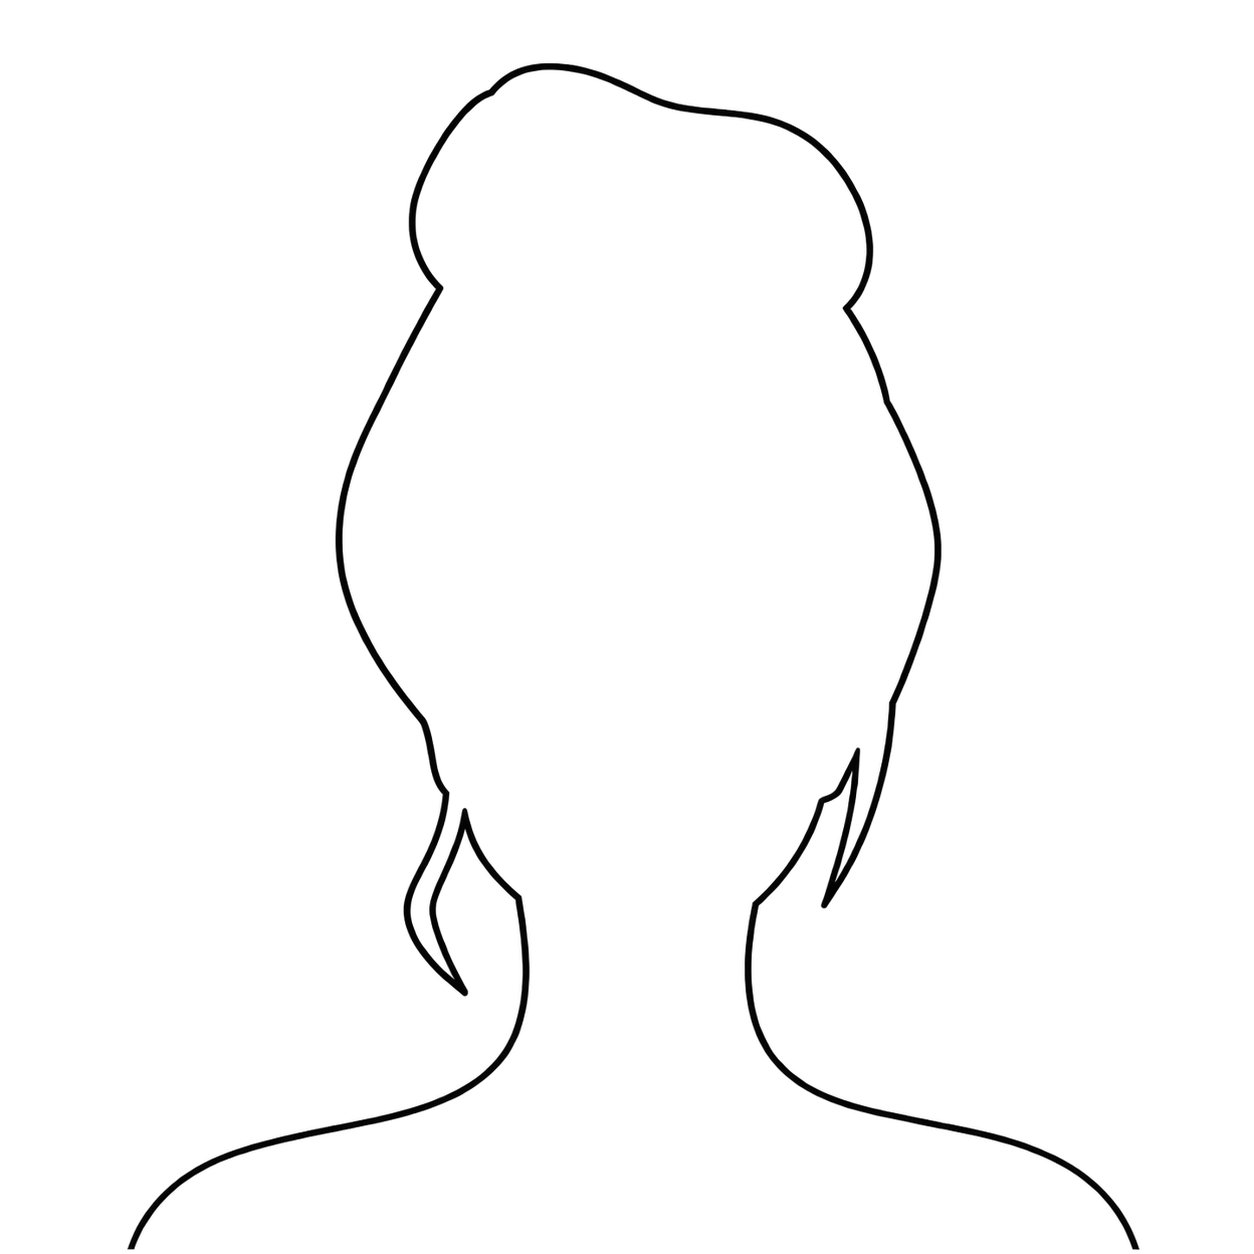
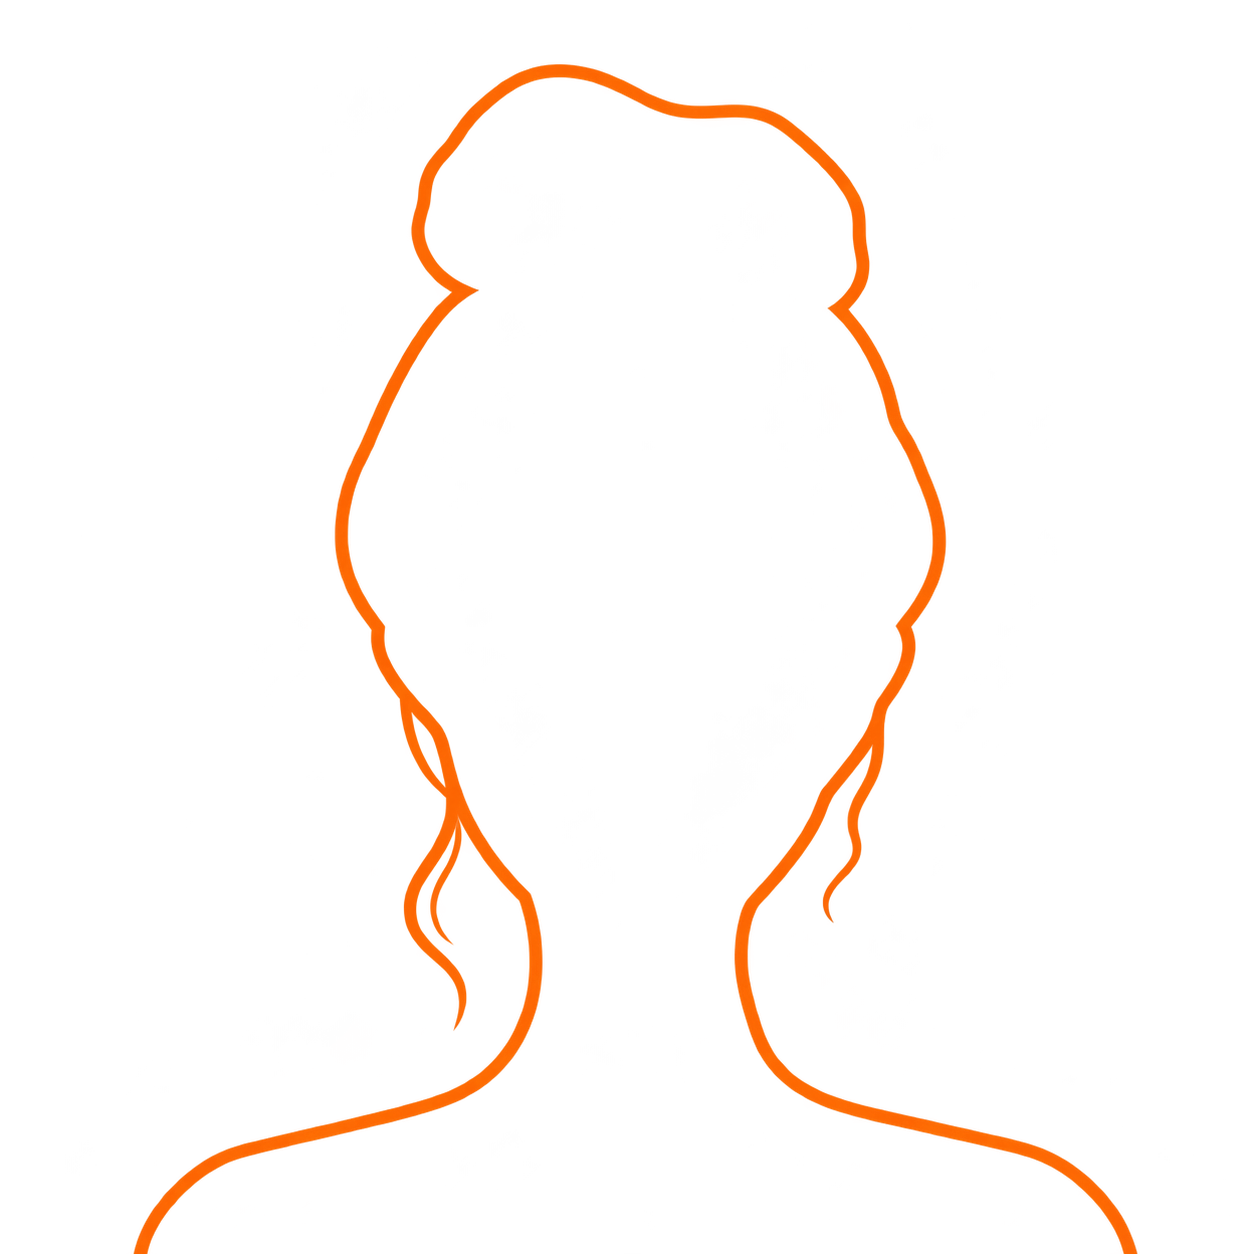
progress bar

diff --git a/src/pages/CoordinatorProjectSetup.tsx b/src/pages/CoordinatorProjectSetup.tsx
@@ -257,6 +257,29 @@ export default function CoordinatorProjectSetup() {
         ProjectFolderTimelineItem[]
     >([]);
 
+    const [selectedProgressFolder, setSelectedProgressFolder] =
+        useState<ProjectFolderTimelineItem | null>(null);
+
+
+    const progressPercentage = selectedProgressFolder
+        ? String(selectedProgressFolder.status) === "2"
+            ? 100
+            : String(selectedProgressFolder.status) === "1"
+                ? 50
+                : 0
+        : 0;
+
+    const progressKeyPerson = selectedProgressFolder?.key_person_options.find(
+        (person) => person.uid === selectedProgressFolder.keypersonid,
+    );
+
+    const progressUserName = progressKeyPerson
+        ? [
+            progressKeyPerson.firstname,
+            progressKeyPerson.lastname,
+        ].filter(Boolean).join(" ") || progressKeyPerson.loginname
+        : "Unassigned";
+
     // ========================================
     // Load project
     // ========================================
@@ -1366,13 +1389,17 @@ export default function CoordinatorProjectSetup() {
                                                             {/* Status */}
                                                             <td className="px-4 py-2">
                                                                 {!container && (
-                                                                    <span
-                                                                        className={`inline-flex whitespace-nowrap rounded-full px-2.5 py-1 text-xs font-medium ${String(folder.status) === "0"
+                                                                    <button
+                                                                        type="button"
+                                                                        disabled={String(folder.status) !== "1"}
+                                                                        onClick={() => setSelectedProgressFolder(folder)}
+                                                                        aria-label={`View progress and notes for ${folder.fname}`}
+                                                                        className={`inline-flex whitespace-nowrap rounded-full px-2.5 py-1 text-xs font-medium transition ${String(folder.status) === "0"
                                                                             ? "bg-gray-100 text-gray-700 dark:bg-gray-800 dark:text-gray-300"
                                                                             : String(folder.status) === "1"
-                                                                                ? "bg-orange-50 text-orange-700 dark:bg-orange-950 dark:text-orange-300"
+                                                                                ? "cursor-pointer bg-orange-50 text-orange-700 hover:bg-orange-100 hover:ring-2 hover:ring-primary/30 dark:bg-orange-950 dark:text-orange-300 dark:hover:bg-orange-900"
                                                                                 : String(folder.status) === "2"
-                                                                                    ? "bg-green-50 text-green-700 dark:bg-green-950 dark:text-green-300"
+                                                                                    ? "cursor-default bg-green-50 text-green-700 dark:bg-green-950 dark:text-green-300"
                                                                                     : "bg-gray-100 text-gray-700 dark:bg-gray-800 dark:text-gray-300"
                                                                             }`}
                                                                     >
@@ -1383,7 +1410,11 @@ export default function CoordinatorProjectSetup() {
                                                                                 : String(folder.status) === "2"
                                                                                     ? "Completed"
                                                                                     : "Unknown"}
-                                                                    </span>
+
+                                                                        {String(folder.status) === "1" && (
+                                                                            <span className="ml-1.5">↗</span>
+                                                                        )}
+                                                                    </button>
                                                                 )}
                                                             </td>
 
@@ -1499,6 +1530,179 @@ export default function CoordinatorProjectSetup() {
                     </div>
                 </footer>
             </form>
+
+
+            {/* User Progress Modal */}
+            {selectedProgressFolder && (
+                <div
+                    className="fixed inset-0 z-50 flex items-center justify-center bg-black/50 p-4 backdrop-blur-sm"
+                    onClick={() => setSelectedProgressFolder(null)}
+                >
+                    <div
+                        role="dialog"
+                        aria-modal="true"
+                        aria-labelledby="progress-modal-title"
+                        className="w-full max-w-lg overflow-hidden rounded-2xl border border-gray-200 bg-white shadow-2xl dark:border-gray-700 dark:bg-gray-900"
+                        onClick={(event) => event.stopPropagation()}
+                    >
+                        {/* Modal Header */}
+                        <div className="flex items-start justify-between border-b border-gray-200 bg-orange-50/70 p-5 dark:border-gray-800 dark:bg-orange-950/20">
+                            <div className="flex items-start gap-3">
+                                <div className="flex h-11 w-11 shrink-0 items-center justify-center rounded-xl bg-primary/10 text-primary">
+                                    <Clock size={22} />
+                                </div>
+
+                                <div className="min-w-0">
+                                    <h2
+                                        id="progress-modal-title"
+                                        className="text-lg font-semibold text-gray-900 dark:text-white"
+                                    >
+                                        User Progress
+                                    </h2>
+
+                                    <p className="mt-1 break-words text-sm text-gray-500 dark:text-gray-400">
+                                        {selectedProgressFolder.fname}
+                                    </p>
+                                </div>
+                            </div>
+
+                            <button
+                                type="button"
+                                onClick={() => setSelectedProgressFolder(null)}
+                                aria-label="Close progress modal"
+                                className="rounded-lg p-2 text-gray-500 transition hover:bg-white hover:text-gray-900 dark:hover:bg-gray-800 dark:hover:text-white"
+                            >
+                                <X size={19} />
+                            </button>
+                        </div>
+
+                        {/* Modal Content */}
+                        <div className="space-y-6 p-5">
+                            {/* User and Status */}
+                            <div className="grid grid-cols-2 gap-3">
+                                <div className="rounded-xl border border-gray-200 p-3 dark:border-gray-700">
+                                    <p className="text-xs font-medium text-gray-500 dark:text-gray-400">
+                                        Assigned User
+                                    </p>
+
+                                    <p className="mt-2 break-words text-sm font-semibold text-gray-900 dark:text-white">
+                                        {progressUserName}
+                                    </p>
+
+                                    {selectedProgressFolder.keypersonid && (
+                                        <p className="mt-1 text-xs text-gray-500 dark:text-gray-400">
+                                            User ID: {selectedProgressFolder.keypersonid}
+                                        </p>
+                                    )}
+                                </div>
+
+                                <div className="rounded-xl border border-gray-200 p-3 dark:border-gray-700">
+                                    <p className="text-xs font-medium text-gray-500 dark:text-gray-400">
+                                        Current Status
+                                    </p>
+
+                                    <span className="mt-2 inline-flex items-center gap-1.5 rounded-full bg-orange-50 px-2.5 py-1 text-xs font-semibold text-orange-700 dark:bg-orange-950 dark:text-orange-300">
+                                        <span className="h-1.5 w-1.5 animate-pulse rounded-full bg-primary" />
+                                        In Progress
+                                    </span>
+                                </div>
+                            </div>
+
+                            {/* Progress Bar */}
+                            <div>
+                                <div className="mb-2 flex items-center justify-between">
+                                    <h3 className="text-sm font-semibold text-gray-900 dark:text-white">
+                                        Completion Progress
+                                    </h3>
+
+                                    <span className="text-sm font-bold text-primary">
+                                        {progressPercentage}%
+                                    </span>
+                                </div>
+
+                                <div
+                                    className="h-3 overflow-hidden rounded-full bg-gray-200 dark:bg-gray-700"
+                                    role="progressbar"
+                                    aria-label="Folder completion progress"
+                                    aria-valuemin={0}
+                                    aria-valuemax={100}
+                                    aria-valuenow={progressPercentage}
+                                >
+                                    <div
+                                        className="h-full rounded-full bg-primary transition-all duration-500 ease-out"
+                                        style={{
+                                            width: `${progressPercentage}%`,
+                                        }}
+                                    />
+                                </div>
+
+                                <p className="mt-2 text-xs text-gray-500 dark:text-gray-400">
+                                    {progressPercentage === 100
+                                        ? "This task is completed."
+                                        : `${progressPercentage}% based on the current status. Actual completion requires progress data from the API.`}
+                                </p>
+                            </div>
+
+                            {/* User Notes */}
+                            <div>
+                                <div className="mb-2 flex items-center gap-2">
+                                    <Folder
+                                        size={17}
+                                        className="text-primary"
+                                    />
+
+                                    <h3 className="text-sm font-semibold text-gray-900 dark:text-white">
+                                        User Notes
+                                    </h3>
+                                </div>
+
+                                <div className="min-h-[110px] whitespace-pre-wrap break-words rounded-xl border border-gray-200 bg-gray-50 p-4 text-sm leading-6 text-gray-700 dark:border-gray-700 dark:bg-gray-800 dark:text-gray-300">
+                                    {selectedProgressFolder.remarks?.trim() ||
+                                        "No notes have been added for this folder yet."}
+                                </div>
+                            </div>
+
+                            {/* Duration Details */}
+                            <div className="grid grid-cols-2 gap-3">
+                                <div className="rounded-lg bg-gray-50 p-3 dark:bg-gray-800">
+                                    <p className="text-xs text-gray-500 dark:text-gray-400">
+                                        Planned Duration
+                                    </p>
+
+                                    <p className="mt-1 text-sm font-semibold text-gray-900 dark:text-white">
+                                        {selectedProgressFolder.days ?? "—"}
+                                        {selectedProgressFolder.days != null
+                                            ? " days"
+                                            : ""}
+                                    </p>
+                                </div>
+
+                                <div className="rounded-lg bg-gray-50 p-3 dark:bg-gray-800">
+                                    <p className="text-xs text-gray-500 dark:text-gray-400">
+                                        Folder ID
+                                    </p>
+
+                                    <p className="mt-1 text-sm font-semibold text-gray-900 dark:text-white">
+                                        {selectedProgressFolder.fid}
+                                    </p>
+                                </div>
+                            </div>
+                        </div>
+
+                        {/* Modal Footer */}
+                        <div className="flex justify-end border-t border-gray-200 p-4 dark:border-gray-800">
+                            <button
+                                type="button"
+                                onClick={() => setSelectedProgressFolder(null)}
+                                className="rounded-lg bg-primary px-4 py-2 text-sm font-medium text-white transition hover:opacity-90"
+                            >
+                                Close
+                            </button>
+                        </div>
+                    </div>
+                </div>
+            )}
+
         </div>
     );
 }
